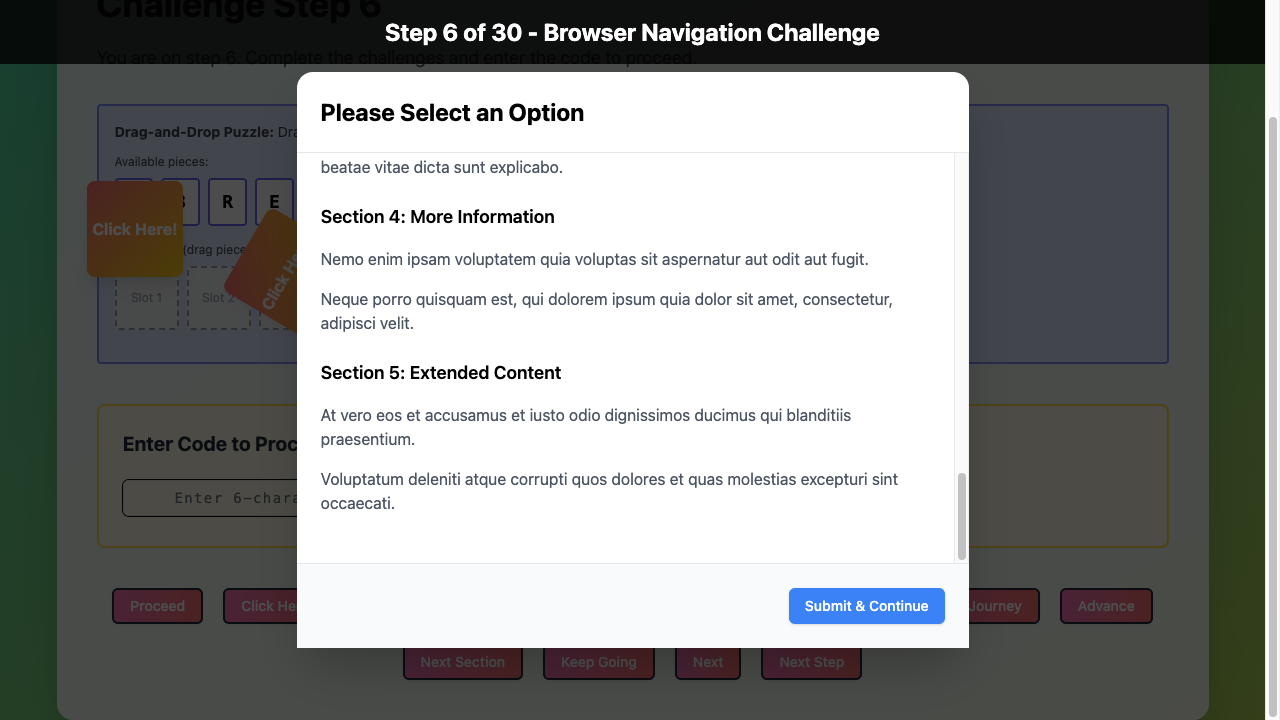
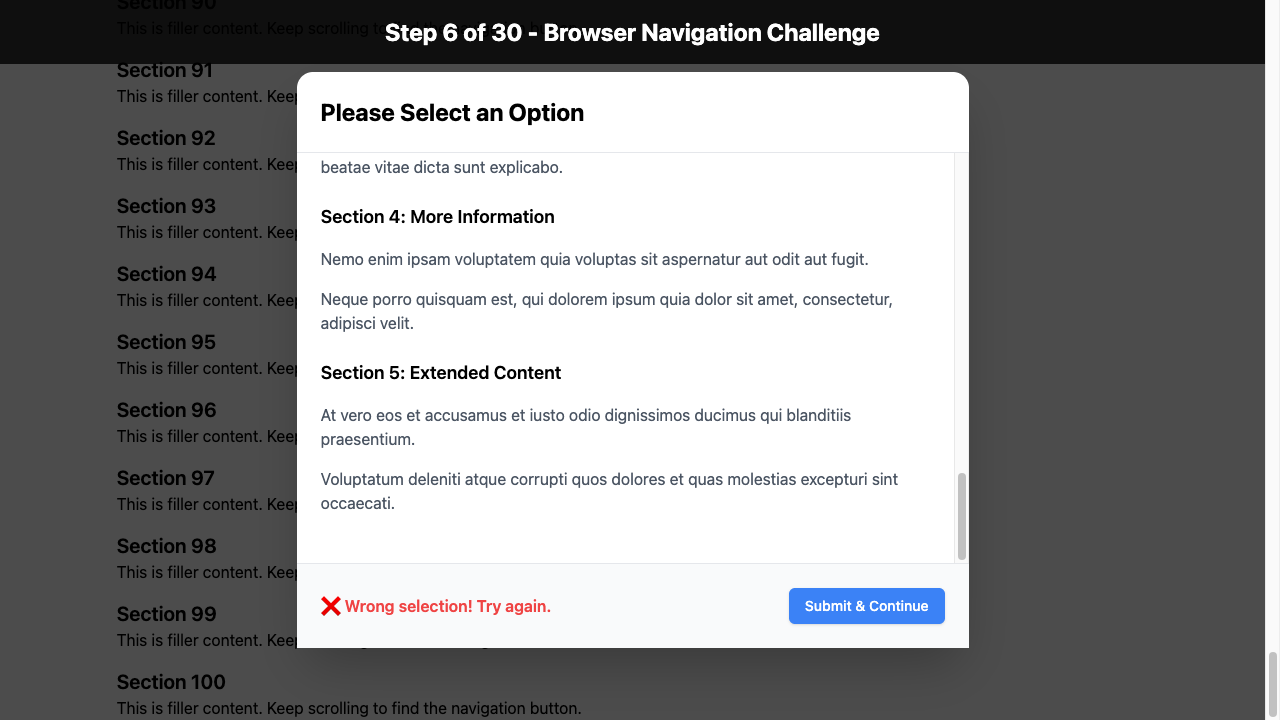
v13: Scroll modal UP to find radio buttons

diff --git a/agent.js b/agent.js
@@ -1,6 +1,6 @@
 /**
- * Browser Challenge Agent v11
- * Better modal scrolling + drag-drop support
+ * Browser Challenge Agent v13
+ * Scroll modal UP to find radio buttons
  */
 const { chromium } = require('playwright');
 const fs = require('fs');
@@ -40,17 +40,15 @@ async function isComplete(page) {
   } catch (e) { return false; }
 }
 
-// Extract code from DOM and text
+// Extract code
 async function extractCode(page) {
   return await page.evaluate(() => {
-    // Check data-challenge-code
     const dataCodeEl = document.querySelector('[data-challenge-code]');
     if (dataCodeEl) {
       const code = dataCodeEl.getAttribute('data-challenge-code');
       if (code && code.length === 6) return code;
     }
     
-    // Check all data attributes
     for (const el of document.querySelectorAll('*')) {
       for (const attr of el.attributes) {
         if (attr.name.startsWith('data-') && /^[A-Z0-9]{6}$/.test(attr.value)) {
@@ -59,7 +57,6 @@ async function extractCode(page) {
       }
     }
     
-    // Text content
     const text = document.body.innerText;
     const patterns = [/\b[A-Z]{6}\b/g, /\b\d{6}\b/g, /\b[A-Z0-9]{6}\b/g];
     const skip = ['SUBMIT', 'SELECT', 'OPTION', 'BUTTON', 'SCROLL', 'COOKIE', 'PLEASE', 'ACCEPT', 'REVEAL', 'WRONG', 'HIDDEN'];
@@ -87,52 +84,64 @@ async function closePopups(page) {
   });
 }
 
-// IMPROVED: Handle scrollable modals - scroll to bottom then find radio
+// IMPROVED: Scroll modal BOTH ways to find radio buttons
 async function handleScrollableModal(page) {
-  // First scroll the modal content to bottom to reveal radio buttons
+  // First scroll to TOP of modal to reveal radio buttons
   await page.evaluate(() => {
-    // Find modal containers and scroll them
-    document.querySelectorAll('.fixed, .modal, [role="dialog"], [class*="modal"]').forEach(modal => {
-      // Find scrollable child
-      modal.querySelectorAll('*').forEach(el => {
-        if (el.scrollHeight > el.clientHeight + 50) {
-          el.scrollTop = el.scrollHeight;
+    document.querySelectorAll('.fixed, [role="dialog"], [class*="modal"]').forEach(modal => {
+      const scrollables = [modal, ...modal.querySelectorAll('*')];
+      scrollables.forEach(el => {
+        if (el.scrollHeight > el.clientHeight) {
+          el.scrollTop = 0; // Scroll to TOP first
         }
       });
-      // Also scroll the modal itself
-      if (modal.scrollHeight > modal.clientHeight) {
-        modal.scrollTop = modal.scrollHeight;
-      }
     });
     
-    // Also scroll any overflow element
     document.querySelectorAll('*').forEach(el => {
       const style = window.getComputedStyle(el);
       if ((style.overflowY === 'auto' || style.overflowY === 'scroll') && 
-          el.scrollHeight > el.clientHeight + 50) {
-        el.scrollTop = el.scrollHeight;
+          el.scrollHeight > el.clientHeight) {
+        el.scrollTop = 0; // Scroll to TOP
       }
     });
   });
   await delay(200);
   
-  // Now find and click correct radio button
-  await page.evaluate(() => {
-    const correctIndicators = ['correct', 'right choice', 'option b - correct', 'correct answer', 'the right'];
-    let found = false;
-    document.querySelectorAll('input[type="radio"]').forEach(radio => {
-      if (found) return;
-      const parent = radio.closest('div') || radio.closest('label');
-      const text = parent ? parent.textContent.toLowerCase() : '';
-      for (const indicator of correctIndicators) {
-        if (text.includes(indicator)) {
-          radio.click();
-          found = true;
-          break;
-        }
-      }
+  // Try to find radio buttons at top
+  let clicked = await selectCorrectRadio(page);
+  
+  // If not found, scroll to middle
+  if (!clicked) {
+    await page.evaluate(() => {
+      document.querySelectorAll('.fixed, [role="dialog"], [class*="modal"]').forEach(modal => {
+        const scrollables = [...modal.querySelectorAll('*')];
+        scrollables.forEach(el => {
+          if (el.scrollHeight > el.clientHeight) {
+            el.scrollTop = el.scrollHeight / 2;
+          }
+        });
+      });
     });
-  });
+    await delay(200);
+    clicked = await selectCorrectRadio(page);
+  }
+  
+  // If still not found, scroll to bottom
+  if (!clicked) {
+    await page.evaluate(() => {
+      document.querySelectorAll('.fixed, [role="dialog"], [class*="modal"]').forEach(modal => {
+        const scrollables = [...modal.querySelectorAll('*')];
+        scrollables.forEach(el => {
+          if (el.scrollHeight > el.clientHeight) {
+            el.scrollTop = el.scrollHeight;
+          }
+        });
+      });
+    });
+    await delay(200);
+    clicked = await selectCorrectRadio(page);
+  }
+  
   await delay(100);
   
   // Submit modal
@@ -144,25 +153,61 @@ async function handleScrollableModal(page) {
       }
     });
   });
+  
+  return clicked;
 }
 
-// Handle drag and drop puzzle
+// Helper to select correct radio
+async function selectCorrectRadio(page) {
+  return await page.evaluate(() => {
+    const radios = Array.from(document.querySelectorAll('input[type="radio"]'));
+    
+    const exactMatches = [
+      'option b - correct choice',
+      'correct answer',
+      'correct choice', 
+      'this is correct',
+      'the right choice'
+    ];
+    
+    for (const radio of radios) {
+      const parent = radio.closest('div') || radio.closest('label');
+      const text = parent ? parent.textContent.toLowerCase().trim() : '';
+      
+      for (const match of exactMatches) {
+        if (text.includes(match)) {
+          radio.click();
+          return true;
+        }
+      }
+    }
+    
+    for (const radio of radios) {
+      const parent = radio.closest('div') || radio.closest('label');
+      const text = parent ? parent.textContent.toLowerCase() : '';
+      if (text.includes('correct') && !text.includes('incorrect')) {
+        radio.click();
+        return true;
+      }
+    }
+    
+    return false;
+  });
+}
+
+// Handle drag-drop
 async function handleDragDrop(page) {
   try {
-    // Find draggable pieces and drop zones
-    const pieces = await page.$$('[draggable="true"], [class*="piece"], [class*="drag"]');
-    const slots = await page.$$('[class*="slot"], [class*="drop"], [class*="zone"]');
-    
+    const pieces = await page.$$('[draggable="true"], [class*="piece"]');
+    const slots = await page.$$('[class*="slot"], [class*="drop"]');
     for (let i = 0; i < Math.min(pieces.length, slots.length); i++) {
-      try {
-        await pieces[i].dragTo(slots[i]);
-        await delay(100);
-      } catch (e) {}
+      await pieces[i].dragTo(slots[i]);
+      await delay(100);
     }
   } catch (e) {}
 }
 
-// Click reveal/code buttons
+// Click reveal buttons
 async function clickRevealButtons(page) {
   await page.evaluate(() => {
     document.querySelectorAll('button').forEach(btn => {
@@ -196,7 +241,7 @@ async function handleHover(page) {
   });
 }
 
-// Page scroll
+// Page scroll  
 async function handleScroll(page) {
   await page.evaluate(() => window.scrollTo(0, 600));
   await delay(50);
@@ -224,42 +269,32 @@ async function enterCode(page, code) {
 }
 
 async function solveStep(page, step) {
-  // Close popups
   for (let i = 0; i < 3; i++) {
     await closePopups(page);
     await delay(30);
   }
   
-  // Handle scrollable modal (SCROLL FIRST, then radio)
   await handleScrollableModal(page);
-  await delay(150);
+  await delay(200);
   
-  // Close popups
   await closePopups(page);
   
-  // Handle drag-drop
   await handleDragDrop(page);
   await delay(100);
   
-  // Page scroll
   await handleScroll(page);
   
-  // Click floating buttons
   await clickFloatingButtons(page);
   await delay(50);
   
-  // Click reveal buttons  
   await clickRevealButtons(page);
   await delay(100);
   
-  // Hover
   await handleHover(page);
   await delay(50);
   
-  // Close popups
   await closePopups(page);
   
-  // Find code
   let code = await extractCode(page);
   
   if (code) {
@@ -272,8 +307,8 @@ async function solveStep(page, step) {
 
 async function run() {
   console.log('╔════════════════════════════════════════════╗');
-  console.log('║  Browser Challenge Agent v11               ║');
-  console.log('║  Better modal + drag-drop support          ║');
+  console.log('║  Browser Challenge Agent v13               ║');
+  console.log('║  Scroll UP to find radio buttons           ║');
   console.log('╚════════════════════════════════════════════╝\n');
   
   metrics.startTime = Date.now();
@@ -297,7 +332,7 @@ async function run() {
     let lastStep = 0;
     let stuckCount = 0;
     
-    for (let attempt = 0; attempt < 700; attempt++) {
+    for (let attempt = 0; attempt < 800; attempt++) {
       if (Date.now() - metrics.startTime > MAX_TIME_MS) {
         console.log('\n⏰ Time limit!');
         break;
@@ -333,11 +368,11 @@ async function run() {
         await delay(400);
       } else {
         stuckCount++;
-        if (stuckCount === 35) {
+        if (stuckCount === 45) {
           await page.screenshot({ path: `stuck-step${step}.png` });
           console.log(`  [Stuck on step ${step}]`);
         }
-        if (stuckCount > 50) {
+        if (stuckCount > 60) {
           await page.evaluate(() => {
             document.querySelectorAll('button:not([disabled])').forEach(btn => {
               try { btn.click(); } catch(e) {}
@@ -347,7 +382,7 @@ async function run() {
         }
       }
       
-      await delay(70);
+      await delay(60);
     }
     
   } catch (error) {
